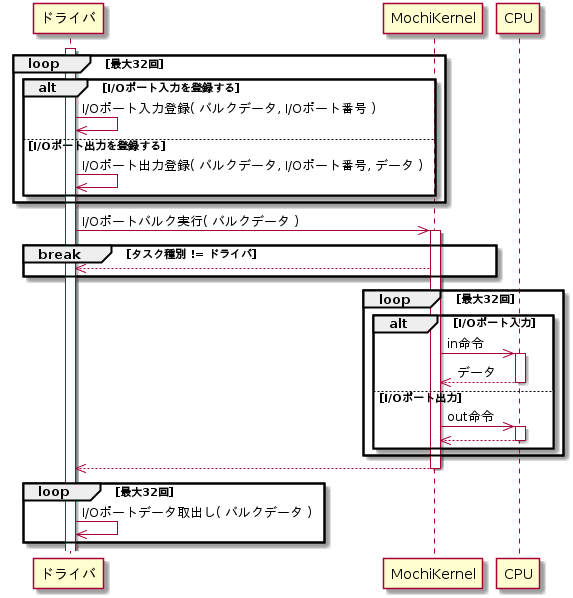
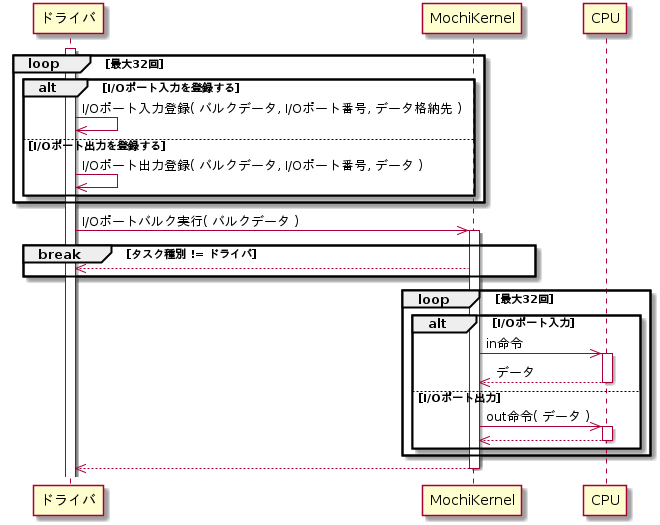
Fix in/out loop count of ioctrl external specification

Changed region(s): [[0.0, 0.0, 1.0, 1.0]]

diff --git a/docs/docs/external/io/index.html b/docs/docs/external/io/index.html
@@ -52,17 +52,17 @@
             <div id="content">
                 <div>
                     <h1><a name="abstruct">入出力制御機能</a></h1>
-                    <p>MochiKernelはドライバタスクにデバイスの入出力制御機能を提供します。サーバタスクとユーザタスクは本機能を使用することはできません。</p>
+                    <p>MochiKernelは全てのタスクにデバイスを直接制御することを禁止します。代わりに、ドライバタスクにデバイスの入出力制御機能を提供します。サーバタスクとユーザタスクは本機能を使用することはできません。</p>
                     <br>
                 </div>
                 <div class="totop"><a href="#top">▲上へ</a></div>
                 <div>
                     <h1><a name="port">ポートマップドI/O制御</a></h1>
-                    <p>IA-32アーキテクチャのポートマップドI/O機能を用いて入出力制御を行います。ドライバプロセスはMochiKernelを通して入出力を行います。</p>
+                    <p>IA-32アーキテクチャのポートマップドI/O機能を用いて入出力を行います。</p>
                     <br>
                     <br>
                     <h2><a name="port-in">I/Oポート入力</a></h2>
-                    <p>I/Oポートからデータを入力します。データサイズは8byte、16byte、32byteに対応します。</p>
+                    <p>指定したI/Oポート番号から指定した回数のin命令を実行して、データを入力します。入力1回分のデータサイズは8bit、16bit、32bitに対応します。</p>
                     <br>
                     <div class="center">
                         <img src="in.png"><br>
@@ -70,7 +70,7 @@
                     </div>
                     <br>
                     <h2><a name="port-out">I/Oポート出力</a></h2>
-                    <p>I/Oポートにデータを出力します。データサイズは8byte、16byte、32byteに対応します。</p>
+                    <p>指定したI/Oポート番号に指定した回数のout命令を実行して、データを出力します。出力1回分のデータサイズは8bit、16bit、32bitに対応します。</p>
                     <br>
                     <div class="center">
                         <img src="out.png"><br>
@@ -78,7 +78,7 @@
                     </div>
                     <br>
                     <h2><a name="port-bulk">I/Oポートバルク入出力</a></h2>
-                    <p>I/Oポートのデータ入出力をまとめて行います。ドライバは予め入出力するI/Oポートアドレスとサイズ、出力を行う場合は出力値をバルクデータに順番に登録しておき、バルクデータを用いてバルク入出力を行います。</p>
+                    <p>I/Oポートのデータ入出力をまとめて行います。データの入出力はバルクデータを用いて行います。バルクデータには、入出力するI/Oポート番号、サイズ、および、データ出力を行う場合はその出力値を順番に登録します。</p>
                     <br>
                     <div class="center">
                         <img src="bulk.png"><br>
@@ -89,16 +89,15 @@
                 <div class="totop"><a href="#top">▲上へ</a></div>
                 <div>
                     <h1><a name="mem">メモリマップドI/O制御</a></h1>
-                    <p>IA-32アーキテクチャのメモリマップドI/O機能を用いて入出力制御を行います。ドライバプロセスはMochiKernelを用いてI/Oメモリ領域を自身の仮想メモリ領域に割当てた後、通常のメモリアクセス方法で入出力を行います。</p>
+                    <p>IA-32アーキテクチャのメモリマップドI/O機能を用いて入出力を行います。ドライバプロセスはMochiKernelを用いてI/Oメモリ領域を自身の仮想メモリ領域に割当てた後、通常のメモリアクセス方法で入出力を行います。</p>
                     <br>
                     <br>
-                    <h2><a name="mem-alloc">I/Oメモリ割当て</a></h2>
+                    <h2><a name="mem-alloc">I/Oメモリ領域割当て</a></h2>
                     <p>I/Oメモリ領域をドライバプロセスの仮想メモリ領域に割当てます。</p>
                     <br>
-                    <div class="center">
-                        <img src="alloc.png"><br>
-                        I/Oメモリ領域割当て
-                    </div>
+                    <br>
+                    <h2><a name="mem-free">I/Oメモリ領域解放</a></h2>
+                    <p>割り当てていたI/Oメモリ領域を解放します。</p>
                     <br>
                 </div>
                 <div class="totop"><a href="#top">▲上へ</a></div>
@@ -114,6 +113,7 @@
                             <a href="#port-bulk"><li>I/Oポートバルク入出力</li></a></ol>
                         <a href="#mem"><li>メモリマップドI/O制御</li></a><ol>
                             <a href="#mem-alloc"><li>I/Oメモリ領域割当て</li></a>
+                            <a href="#mem-free"><li>I/Oメモリ領域解放</li></a></ol>
                     </ol>
                 </div>
             </div>
